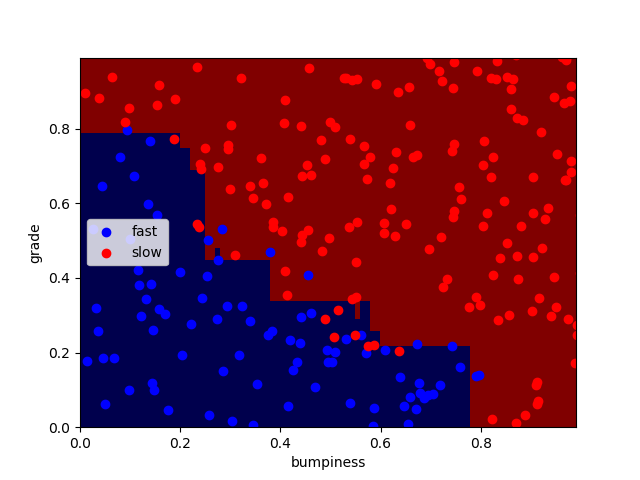
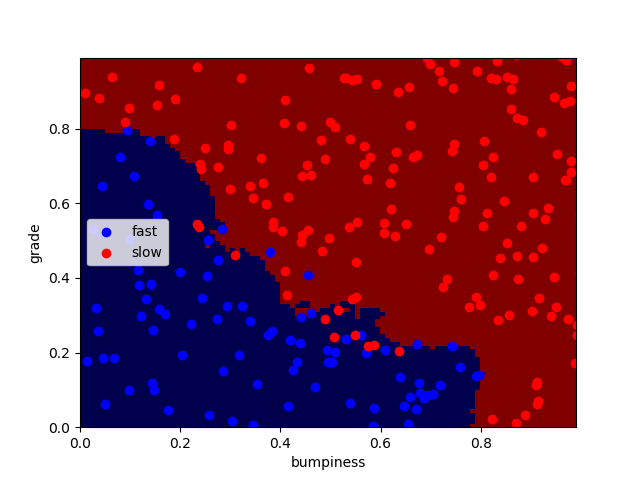
best solution

diff --git a/choose_your_own/your_algorithm.py b/choose_your_own/your_algorithm.py
@@ -30,11 +30,18 @@ plt.show()
 
 ### your code here!  name your classifier object clf if you want the
 ### visualization code (prettyPicture) to show you the decision boundary
-#from sklearn.neighbors import KNeighborsClassifier
-from sklearn.ensemble import AdaBoostClassifier
+
+from sklearn.neighbors import KNeighborsClassifier
+#from sklearn.ensemble import AdaBoostClassifier
+#from sklearn.ensemble import RandomForestClassifier
+
 from sklearn.metrics import accuracy_score
-#clf = KNeighborsClassifier(n_neighbors=20, algorithm='auto', weights='distance')
-clf = AdaBoostClassifier()
+
+clf = KNeighborsClassifier(n_neighbors=20, algorithm='auto', weights='distance')
+#clf = AdaBoostClassifier()
+#clf = RandomForestClassifier(n_estimators=10)
+
+#fit data based on above algorithm
 clf.fit(features_train, labels_train)
 
 pred = clf.predict(features_test)
